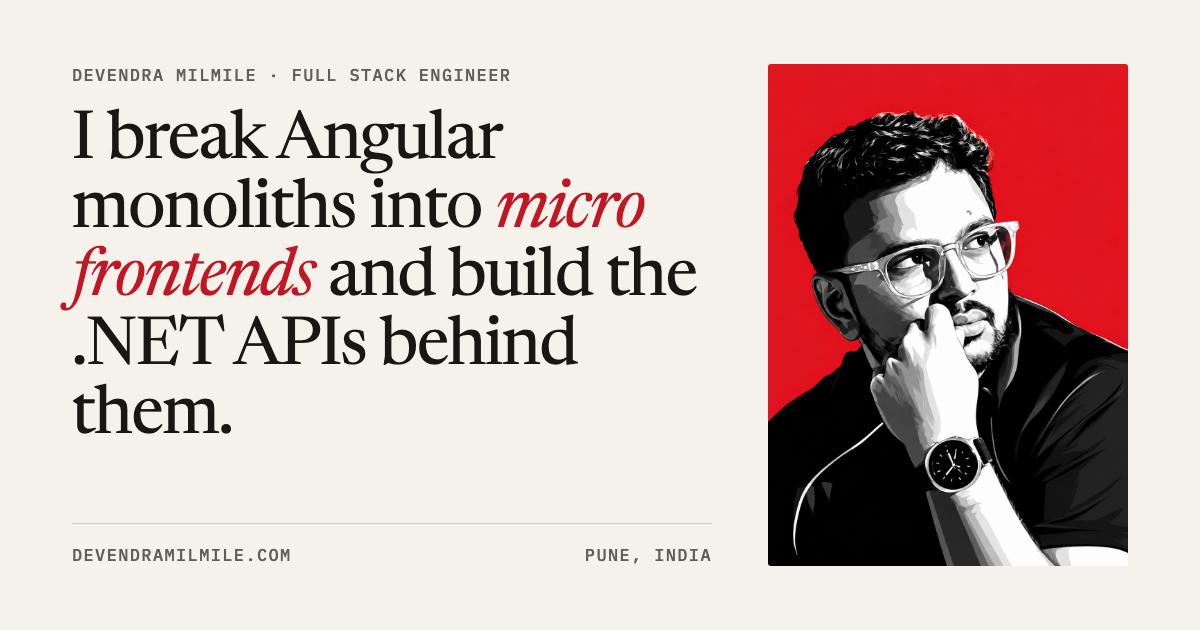
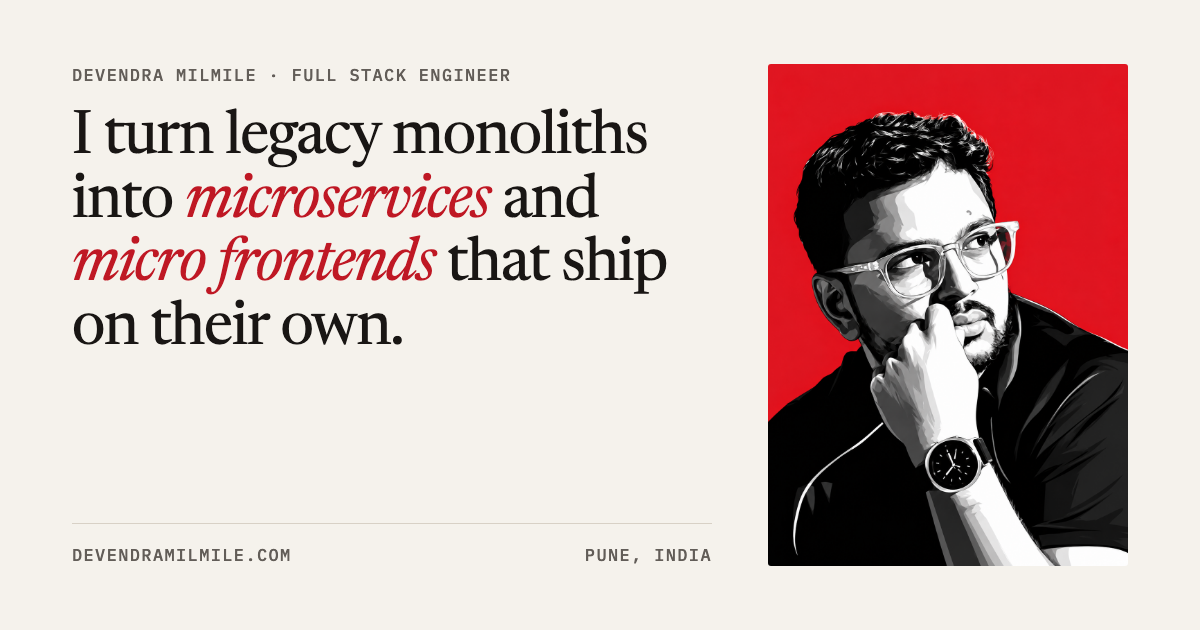
content: headline "I turn legacy monoliths into microservices and micro frontends that ship on their own"
Name both halves of the work and the outcome that justifies a migration:
teams shipping independently. The meta description and share image say
the same, and the share image URL is versioned so LinkedIn and other
link previews fetch the new one instead of a cached copy.

The hero intro and bio are reworded so they don't repeat the headline.

Changed region(s): [[0.0617, 0.1508, 0.5858, 0.6937]]

diff --git a/index.html b/index.html
@@ -8,7 +8,7 @@
     <!-- Primary Meta Tags (SEO) -->
     <title>Devendra Milmile - Full Stack Developer | Angular & .NET Core</title>
     <meta name="title" content="Devendra Milmile - Full Stack Developer | Angular & .NET Core" />
-    <meta name="description" content="Full stack developer in Pune with 7+ years of Angular and .NET Core work. I build web apps, micro frontends, and the APIs behind them." />
+    <meta name="description" content="Full stack developer in Pune with 7+ years of Angular and .NET Core. I turn legacy monoliths into microservices and micro frontends that ship on their own." />
     <meta name="keywords" content="Full Stack Developer, Angular Developer, .NET Core Developer, Devendra Milmile, Web Developer, Pune Developer, Micro Frontends, React, TypeScript, C#, Microservices" />
     <meta name="author" content="Devendra Milmile" />
     <meta name="language" content="English" />
@@ -17,18 +17,18 @@
     
     <!-- Open Graph Meta Tags (Social Media) -->
     <meta property="og:title" content="Devendra Milmile - Full Stack Developer | Angular & .NET Core" />
-    <meta property="og:description" content="Full stack developer in Pune with 7+ years of Angular and .NET Core work. I build web apps, micro frontends, and the APIs behind them." />
+    <meta property="og:description" content="Full stack developer in Pune with 7+ years of Angular and .NET Core. I turn legacy monoliths into microservices and micro frontends that ship on their own." />
     <meta property="og:type" content="website" />
     <meta property="og:url" content="https://devendramilmile.com" />
-    <meta property="og:image" content="https://devendramilmile.com/og-image.png" />
+    <meta property="og:image" content="https://devendramilmile.com/og-image.png?v=2" />
     <meta property="og:site_name" content="Devendra Milmile - Full Stack Developer" />
     <meta property="og:locale" content="en_US" />
     
     <!-- Twitter Card Meta Tags -->
     <meta name="twitter:card" content="summary_large_image" />
     <meta name="twitter:title" content="Devendra Milmile - Full Stack Developer | Angular & .NET Core" />
-    <meta name="twitter:description" content="Full stack developer in Pune with 7+ years of Angular and .NET Core work. I build web apps, micro frontends, and the APIs behind them." />
-    <meta name="twitter:image" content="https://devendramilmile.com/og-image.png" />
+    <meta name="twitter:description" content="Full stack developer in Pune with 7+ years of Angular and .NET Core. I turn legacy monoliths into microservices and micro frontends that ship on their own." />
+    <meta name="twitter:image" content="https://devendramilmile.com/og-image.png?v=2" />
     <meta name="twitter:url" content="https://devendramilmile.com" />
     
     <!-- Canonical URL -->
@@ -86,7 +86,7 @@
         "https://www.npmjs.com/~devendramilmile"
       ],
       "image": "https://devendramilmile.com/profile-image.jpg",
-      "description": "Full stack developer in Pune with 7+ years of Angular and .NET Core work. I build web apps, micro frontends, and the APIs behind them.",
+      "description": "Full stack developer in Pune with 7+ years of Angular and .NET Core. I turn legacy monoliths into microservices and micro frontends that ship on their own.",
       "knowsAbout": ["Angular", "Micro Frontends", ".NET Core", "YARP", "TypeScript", "C#", "SQL Server", "PostgreSQL", "Azure", "Microservices"],
       "worksFor": {
         "@type": "Organization",
